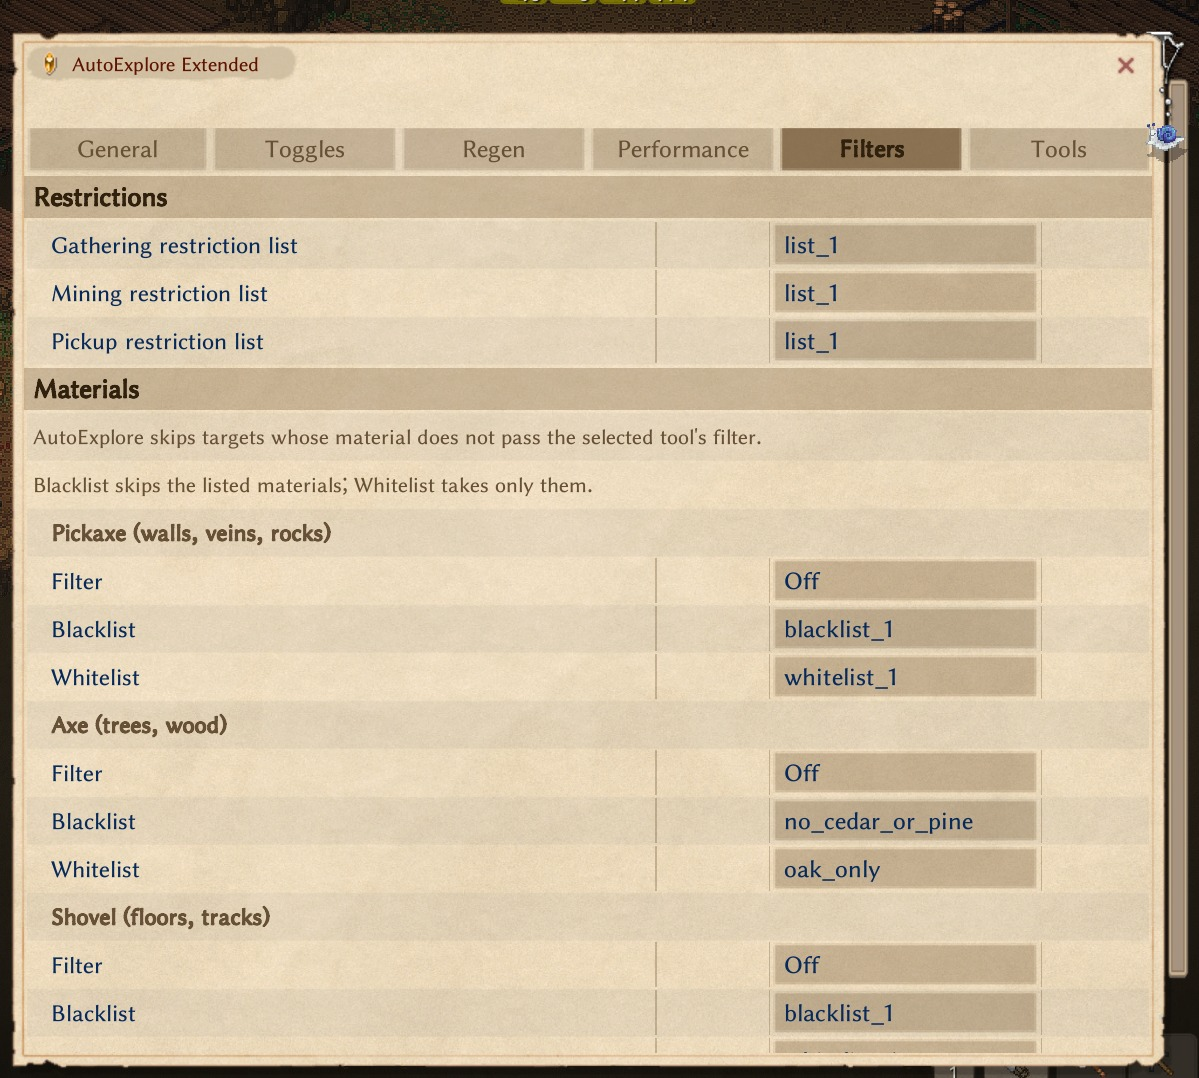
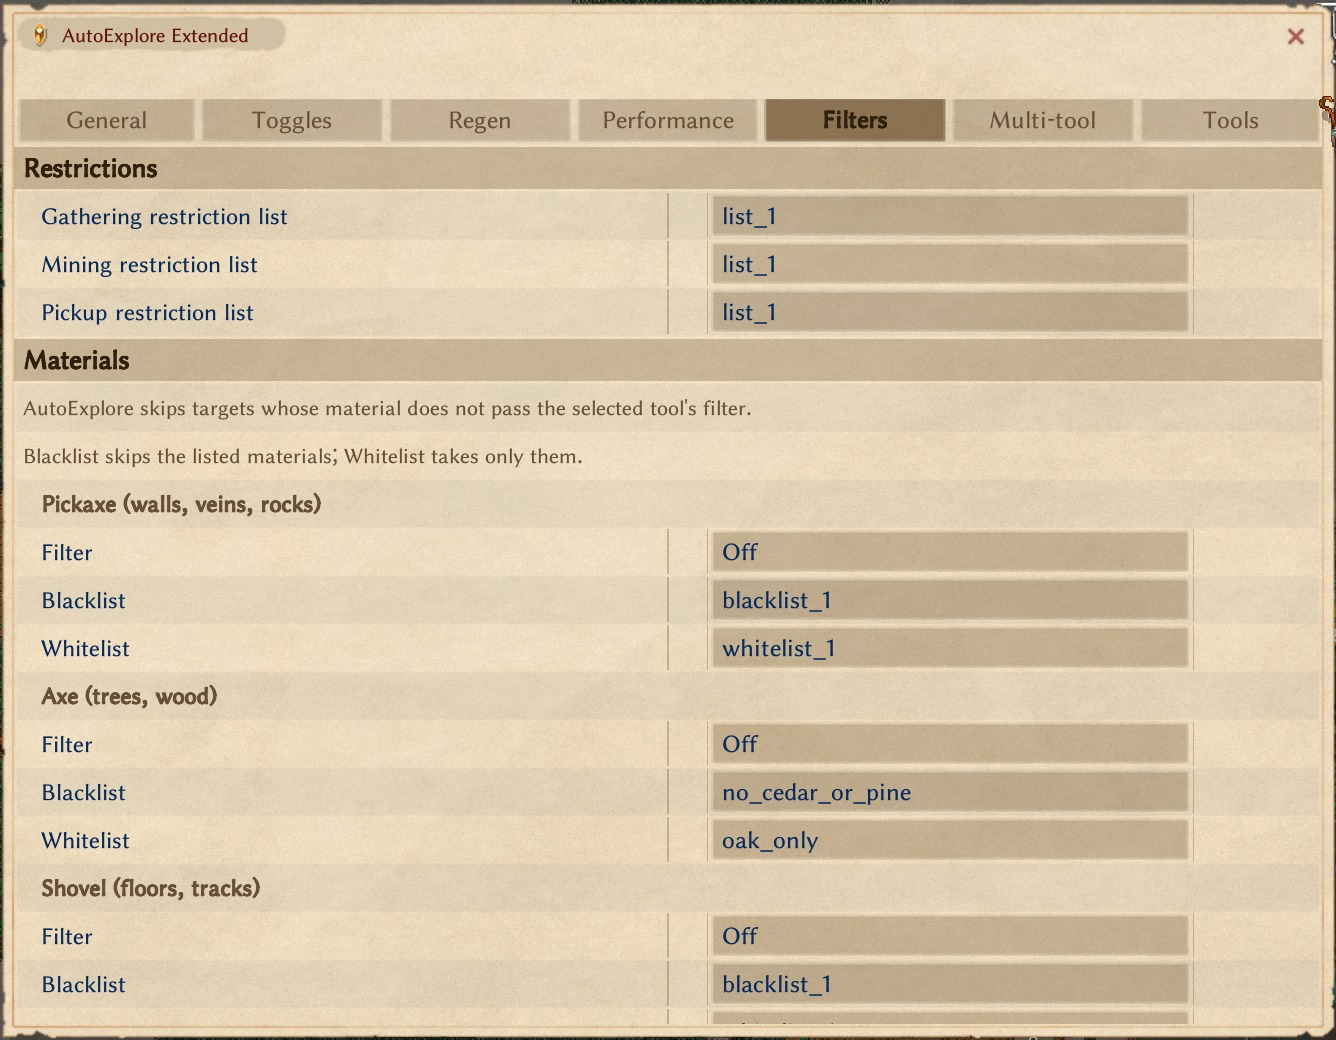
1.1.1: starter preset off by default; fresh Filters screenshots

diff --git a/Plugin.cs b/Plugin.cs
@@ -16,7 +16,7 @@ namespace AutoExploreExtended
     //  - Crowbar / lockpick: opens every legal locked container (prying or picking), mainly for lockpicking experience;
     //    practice chests are always picked by hand (prying would destroy them). Karma/crime targets are excluded by default.
     // With one of these tools selected, AutoExplore's other gathering is set aside.
-    [BepInPlugin(Id, DisplayName, "1.1.0")]
+    [BepInPlugin(Id, DisplayName, "1.1.1")]
     [BepInDependency("yuof.elin.autoExplore.mod", BepInDependency.DependencyFlags.SoftDependency)]
     public sealed class Plugin : BaseUnityPlugin
     {
@@ -33,7 +33,7 @@ namespace AutoExploreExtended
 
         private void Start()
         {
-            try { Migrate(); Install(Config); Materials.Bind(Config); NamedRestrictions.Bind(Config); Digging.Bind(Config); Tracks.Bind(Config); SelfMenu.Bind(Config); MultiTool.Bind(Config); gameObject.AddComponent<MultiToolKey>(); Settings.Register(Config, gameObject); Profiler.Register(Config, gameObject); Logger.LogInfo(DisplayName + " 1.1.0 active."); }
+            try { Migrate(); Install(Config); Materials.Bind(Config); NamedRestrictions.Bind(Config); Digging.Bind(Config); Tracks.Bind(Config); SelfMenu.Bind(Config); MultiTool.Bind(Config); gameObject.AddComponent<MultiToolKey>(); Settings.Register(Config, gameObject); Profiler.Register(Config, gameObject); Logger.LogInfo(DisplayName + " 1.1.1 active."); }
             catch (Exception e) { Logger.LogError(DisplayName + " disabled: " + e); }
         }
 

diff --git a/MultiTool.cs b/MultiTool.cs
@@ -44,7 +44,7 @@ namespace AutoExploreExtended
             file = Path.Combine(Path.GetDirectoryName(c.ConfigFilePath), Plugin.Id + ".multitool.json");
             try { data = File.Exists(file) ? JsonConvert.DeserializeObject<Data>(File.ReadAllText(file), new JsonSerializerSettings { ObjectCreationHandling = ObjectCreationHandling.Replace }) : null; } catch { data = null; }
             data = data ?? new Data();
-            if (data.Presets.Count == 0) data.Presets["all_tools"] = new Preset();
+            if (data.Presets.Count == 0) data.Presets["all_tools"] = new Preset { InCycle = false }; // off until the player turns it on: no surprise mode in the cycle
             foreach (var p in data.Presets.Values) p.Tools = (p.Tools ?? new List<string>()).Distinct().Where(t => Enum.IsDefined(typeof(Kind), t)).ToList(); // older files doubled the list
             data.Order = (data.Order ?? new List<string>()).Where(data.Presets.ContainsKey).Distinct().ToList();
             data.Order.AddRange(data.Presets.Keys.Where(k => !data.Order.Contains(k)).OrderBy(k => k));

diff --git a/CHANGELOG.md b/CHANGELOG.md
@@ -1,5 +1,8 @@
 # Changelog
 
+## 1.1.1
+The starter all_tools preset starts out of the cycle: multi-tool mode never appears until you turn a preset on.
+
 ## 1.1.0
 Multi-tool mode: named presets of tools; one pass over the map, swapping to the best carried tool for each job.
 Sickle first on reapable plants; lockpick before crowbar. Presets join AutoExplore's mode key after Combined or use
